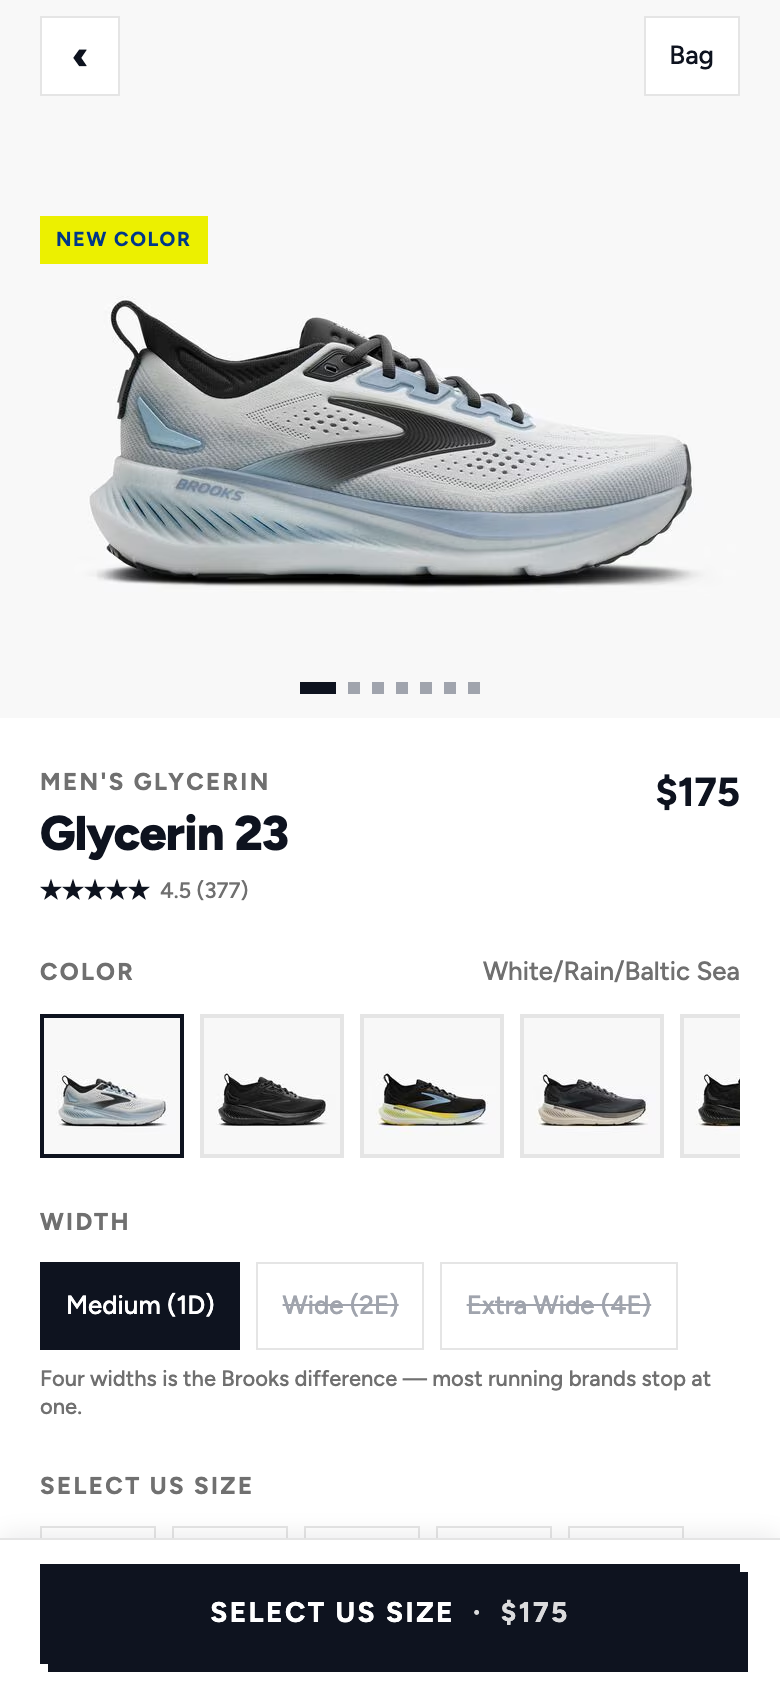
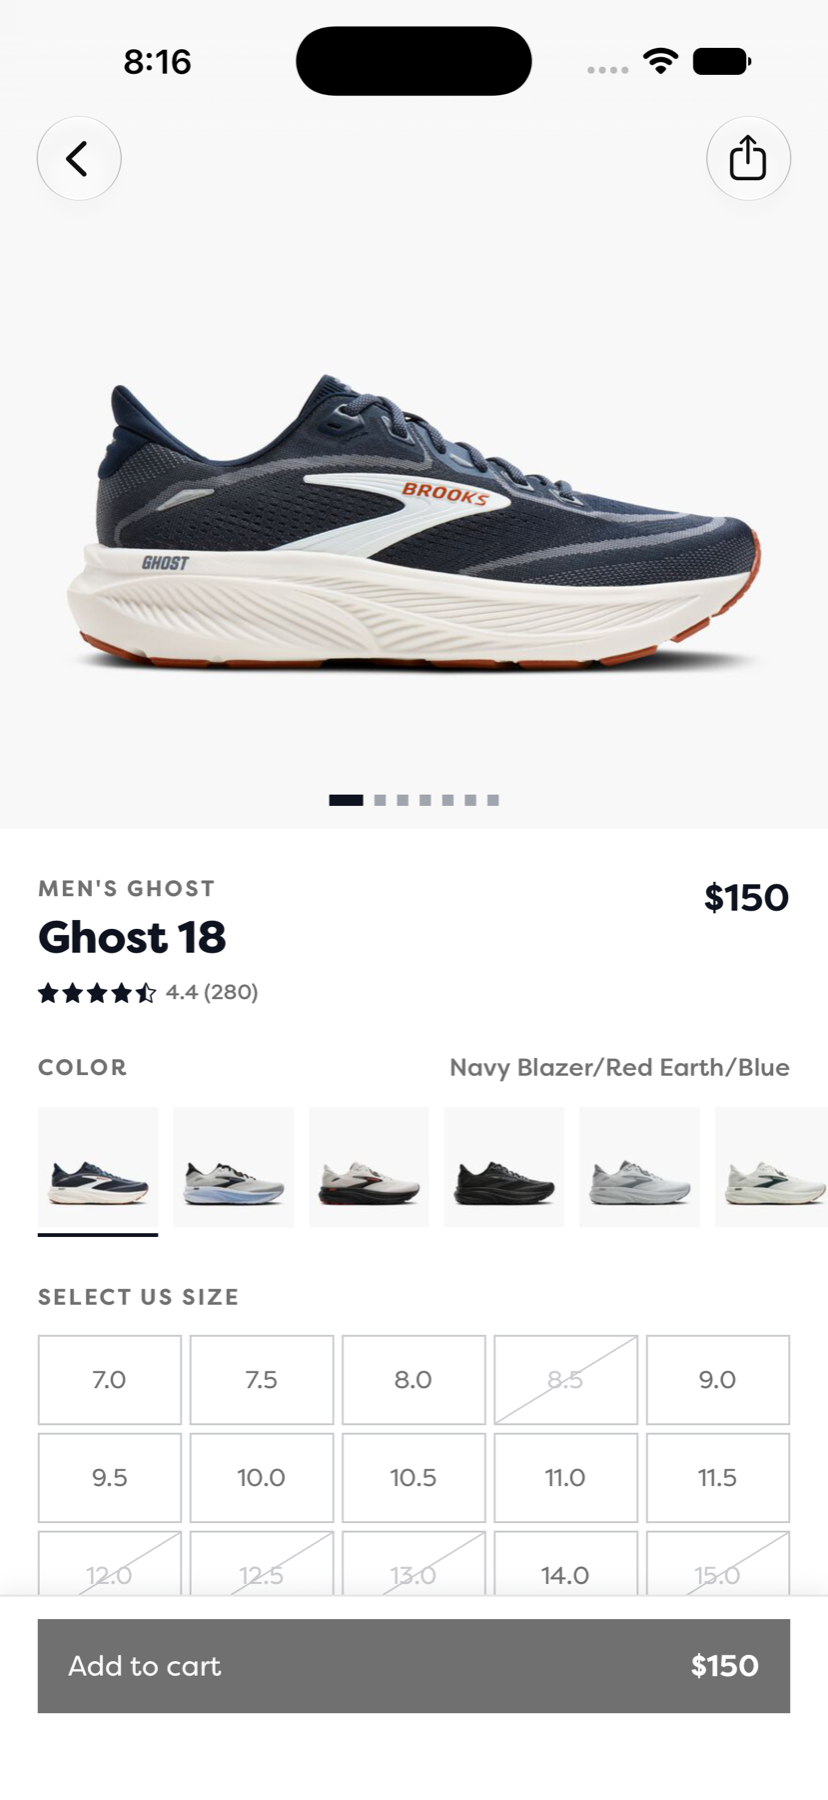
Refresh README and lead screenshots
- Document the current app flows, data boundaries, setup, and TestFlight workflow
- Record EAS workflow results and README refresh decisions in diaries
- Update Home and product detail screenshots

diff --git a/README.md b/README.md
@@ -1,103 +1,155 @@
-# Brooks Mobile Commerce Prototype
+# Brooks mobile commerce prototype
 
-An exploration of what a best-in-class native shopping experience for
-[Brooks Running](https://www.brooksrunning.com) could feel like, built with
-Expo SDK 57. Ported from a research monorepo into this standalone repository;
-the design goal is unchanged: distinctively native, refined, and compelling
-enough to show Brooks executives why Expo is a strong foundation for their
-mobile app.
+A working mobile shopping prototype inspired by [Brooks Running](https://www.brooksrunning.com), built with Expo SDK 57 and React Native 0.86. It uses real Brooks products and photography for the full browse-to-cart journey. Checkout stops inside the app, and no order is placed.
 
-| | |
-|---|---|
-| ![Home](./docs/expo-home.png) | ![PDP](./docs/expo-pdp.png) |
+| Home | Product details |
+| --- | --- |
+| ![The Ghost Amp home screen](./docs/expo-home.png) | ![Ghost 18 product details](./docs/expo-pdp.png) |
 
-More screenshots in `docs/`: PLP, cart, shoe finder, live search.
+## What works
 
-## Running the app
+- Home mirrors the current Brooks campaign with the Ghost Amp video hero, product rails, editorial cards, and the "Longer days. Longer runs." feature.
+- Browse covers categories and franchises. Its search field swaps the screen into live Constructor.io results, with suggestions, filters, sorting, and an on-device fallback when the service is unavailable.
+- Shoe Finder runs a 16-step fit and preference quiz, then ranks products from the bundled catalog.
+- Product details include a swipeable gallery, colorways, widths, per-size availability, specifications, fit data, reviews, and a persistent add-to-cart flow.
+- Cart supports quantity changes, swipe-to-remove with undo, totals, and persisted items. Checkout displays the prototype boundary instead of contacting Brooks.
+- Brooks Run Club membership is a local demo state. Names and email addresses stay on the device.
+- The app uses native stack headers and sheets, an app-owned five-tab bar, reduced-motion behavior, and Apple zoom transitions on iOS 18 and newer.
+
+The repository has iOS, Android, and web scripts. The current store-delivery workflow is iOS-only.
+
+## Quick start
+
+You will need [Bun 1.2.22](https://bun.sh) and the native tooling for the platform you plan to run. Expo SDK 57 targets Node 22.13 or newer, React Native 0.86, Xcode 26.4 or newer, iOS 16.4 or newer, and Android API 36. See the [versioned Expo SDK 57 requirements](https://docs.expo.dev/versions/v57.0.0/#each-expo-sdk-version-depends-on-a-react-native-version).
+
+Install dependencies and build a local iOS development client:
 
 ```sh
 bun install
-bun run ios       # expo run:ios — build + launch on the iOS simulator
-bun run android   # expo run:android — build + launch on the Android emulator
-bun run start     # Metro only; press i / a, or scan with Expo Go
-bun run web       # run in a browser
+bun run ios
 ```
 
-The app boots through an animated Brooks splash into the Project 222 home
-screen, with real Brooks products throughout. Search is live against Brooks's
-own Constructor.io index; everything else works offline from the bundled
-snapshot. It targets Expo Go as well as dev builds.
-
-## The one thing to know about the data
-
-[LLP 0002](./llp/0002-brooks-commerce-api.research.md) is the load-bearing
-document. In short:
-
-**brooksrunning.com is behind Akamai Bot Manager and returns `403` to every
-non-browser HTTP client.** An app cannot call its product or cart APIs at all.
-Two Brooks surfaces *are* open to a phone, and the architecture follows from
-that:
-
-- **Live:** Constructor.io search (`src/data/constructor.ts`) and the Brooks
-  image CDN, which resizes on demand — so the app streams real Brooks
-  photography.
-- **Snapshotted:** products, prices, and per-size stock, captured by
-  [`tools/harvest`](./tools/harvest) driving a real browser session, committed
-  as `packages/catalog/catalog.json`.
-
-The full journey — browse → product → variant → **add to a real Brooks cart** —
-was driven end-to-end against the live endpoints and is documented in LLP 0002.
-No order was placed. The in-app cart is device-local and builds the real Brooks
-variant ids.
-
-## Project structure
-
-```
-src/
-  app/          # expo-router routes only (thin files)
-  screens/      # screen bodies the routes render
-  components/   # shared primitives (button, chip, product-tile, …)
-  data/         # generated copies of packages/catalog + editorial content
-  store/        # cart + Run Club membership (expo-sqlite key-value storage)
-  theme/        # design tokens: colors, spacing, typography, radius, shadows, motion
-  utils/        # kv-storage, haptics, price formatting
-packages/catalog/   # source of truth for the data layer
-tools/harvest/      # captures the catalog from brooksrunning.com (Playwright)
-llp/                # design rationale (Linked Literate Programming)
-diaries/            # AI-agent development diaries
-```
-
-Design tokens keep the values read out of Brooks's own production stylesheet
-([LLP 0003](./llp/0003-brooks-design-system.research.md)) in the
-expo-design-system file layout. Code links back to rationale with
-`@ref LLP NNNN#section` comments.
-
-## Re-harvesting the catalog
+Other targets:
 
 ```sh
-cd tools/harvest && bun install && cd ../..
-bun run harvest   # slow, checkpointed, polite — drives a real browser
-bun run sync      # copy packages/catalog into assets/ and src/data/
+bun run android
+bun run web
 ```
 
-`packages/catalog` is the source of truth. The copies under `src/data/` and
-`assets/catalog.json` are generated — edit the package, not the copy.
+The native `ios/` and `android/` directories are generated locally and ignored by Git. `expo run:ios` and `expo run:android` create them on the first build.
+
+If a development build is already installed, start Metro without rebuilding:
+
+```sh
+bun run start
+```
+
+Because this project includes `expo-dev-client`, that command targets the development build. To open the project in Expo Go instead, force that launch target:
+
+```sh
+bunx expo start --go
+```
+
+## Checks
+
+Run the TypeScript check before sending a change:
+
+```sh
+bun run typecheck
+```
+
+There is no Jest, Detox, or other automated app test suite in this repository yet. Core flows require interactive checks on the target platforms.
+
+## How the data works
+
+The app combines bundled, live, and device-local data:
+
+| Data | Source | Runtime behavior |
+| --- | --- | --- |
+| Products, variants, prices, stock, and specifications | `packages/catalog/catalog.json` | Bundled and available offline |
+| Ratings, fit summaries, and recent reviews | `packages/catalog/reviews.json` | Bundled and available offline |
+| Search and suggestions | Brooks's Constructor.io index | Live, with local fallback |
+| Product and campaign photography | Brooks image CDN | Loaded live |
+| Cart and Run Club demo state | `expo-sqlite` key-value storage | Stored only on the device |
+
+The current catalog snapshot was captured on July 13, 2026. It contains 226 products, 821 colorways, prices, and per-size stock. Review data for all 226 products was refreshed on August 21, 2026.
+
+`brooksrunning.com` sits behind Akamai Bot Manager and returns `403` to non-browser clients. The app therefore cannot call Brooks product, authentication, or cart endpoints directly. [LLP 0002](./llp/0002-brooks-commerce-api.research.md) documents the browser research, reachable services, request shapes, and the exact cart variant identifiers.
+
+`packages/catalog` is the source of truth. Files in `src/data/` and `assets/catalog.json` are generated copies. Do not edit those copies by hand.
+
+## Refreshing the catalog
+
+Install the harvester's browser dependencies once:
+
+```sh
+cd tools/harvest
+bun install
+cd ../..
+```
+
+Then capture and sync the current catalog:
+
+```sh
+bun run harvest
+bun run sync
+```
+
+To replace every review record instead of filling only missing records:
+
+```sh
+bun run harvest:reviews --refresh
+bun run sync
+```
+
+The harvester drives a real browser because direct HTTP requests are blocked. It is slow, checkpointed, and intentionally keeps request volume low.
+
+## Project map
+
+```text
+src/
+  app/                 Expo Router routes
+  screens/             Screen implementations
+  components/          Shared UI and navigation components
+  data/                Generated catalog copies and editorial content
+  store/               Cart, member, and search state
+  theme/               Color, type, spacing, motion, and header tokens
+  utils/               Storage, haptics, and formatting
+packages/catalog/      Source catalog package and schemas
+tools/harvest/         Browser capture, validation, and sync tools
+.eas/workflows/        TestFlight delivery workflow
+docs/                  README screenshots
+llp/                   Product, system, and design rationale
+diaries/               AI-agent development records
+```
+
+`brand.config.js` owns the shippable app identity. `app.config.ts` overlays it on `app.json`, so the display name, slug, URL scheme, and native identifiers stay together.
+
+## TestFlight
+
+The iOS workflow in [`.eas/workflows/deploy-to-testflight.yml`](./.eas/workflows/deploy-to-testflight.yml) fingerprints the native layer, builds when native inputs change, and otherwise uses a matching build as the base for a repack. The resulting binary goes to TestFlight. The project does not use EAS Update.
+
+Run it manually with an Expo account that has access to the configured EAS and App Store Connect projects:
+
+```sh
+eas workflow:run .eas/workflows/deploy-to-testflight.yml
+```
+
+The workflow also declares a push trigger for `main`. That trigger remains inactive until this GitHub repository is connected to the EAS project.
 
 ## Scope
 
-The intended experience mirrors the commerce-focused Brooks website: the
-Josh Kerr / Project 222 home feature, Men's, Women's, New Arrivals, Shoe
-Finder, Run Club login, product shopping, live search, and cart. Completing
-checkout, submitting payment, and placing an order are out of scope.
+The prototype is built for product exploration and technical evaluation. It does not send Run Club details to Brooks, share its local cart with brooksrunning.com, submit payment, or place orders. The harvested catalog is a dated prototype fixture, not a production data contract.
 
 ## Project documentation
 
-The project uses [Linked Literate Programming](https://github.com/ccheever/llp)
-to keep code connected to design rationale.
+This repository uses [Linked Literate Programming](https://github.com/ccheever/llp) to keep implementation decisions connected to their rationale.
 
-- [LLP 0000: Brooks](./llp/0000-brooks.explainer.md) — product and system entry point
-- [LLP 0001: Mobile Shoe Commerce Design Survey](./llp/0001-mobile-shoe-commerce-design.research.md) — benchmarks and rubric
-- [LLP 0002: The Brooks Commerce API](./llp/0002-brooks-commerce-api.research.md) — **read this before touching data**
-- [LLP 0003: Brooks Design System and Screen Patterns](./llp/0003-brooks-design-system.research.md) — brand tokens, voice, screen specs
-- [LLP 0004: Building on Exact Today](./llp/0004-building-on-exact.research.md) — historical research from the original monorepo
-- [AGENTS.md](./AGENTS.md) — working instructions for AI agents
+- [LLP 0000: Brooks](./llp/0000-brooks.explainer.md) is the product and system entry point.
+- [LLP 0001: Mobile shoe commerce design survey](./llp/0001-mobile-shoe-commerce-design.research.md) records the reference products and evaluation rubric.
+- [LLP 0002: The Brooks commerce API](./llp/0002-brooks-commerce-api.research.md) explains the data and network architecture. Read it before changing `src/data/` or `packages/catalog/`.
+- [LLP 0003: Brooks design system and screen patterns](./llp/0003-brooks-design-system.research.md) records brand tokens, navigation, motion, and current screen decisions.
+- [LLP 0004: Building on Exact today](./llp/0004-building-on-exact.research.md) preserves research from the original monorepo.
+- [AGENTS.md](./AGENTS.md) contains working rules for AI agents, including LLP and diary requirements.
+
+Code uses `@ref LLP NNNN#section` comments where a non-obvious implementation decision needs its rationale close by.

diff --git a/diaries/2026-08-26-shared-readme-refresh.md b/diaries/2026-08-26-shared-readme-refresh.md
@@ -1,0 +1,34 @@
+# README refresh
+
+**Date:** 2026-08-26
+**Agent:** Codex (GPT-5.6)
+**System:** Shared
+**Scope:** Replace the stale project README and its two lead screenshots with documentation of the current app.
+
+## Outcome
+
+The root README now documents the current Ghost Amp home, in-place Browse search, Shoe Finder, product and cart behavior, data boundaries, local setup, catalog maintenance, and TestFlight workflow. The Home and PDP images were recaptured from the current iOS development build on an iPhone 17 Pro Max simulator. [observed]
+
+## What worked well
+
+Reading `package.json`, app and EAS configuration, LLP 0000, the relevant LLP 0003 sections, and recent diary outcomes gave a reliable map without reverse-engineering every screen. Argent produced full-resolution screenshots from the same build used to verify the current UI. [observed]
+
+## Friction and blockers
+
+The old README was only two weeks old but described a superseded Project 222 home and pushed search screen. The simulator also restored Home at a previous scroll position, so it had to be returned to the top before capture. No blocker remained. [observed]
+
+## What was hard
+
+The concise explanation had to preserve three distinct boundaries: bundled catalog data, live search and imagery, and device-local member and cart state. Collapsing those into "real Brooks data" would imply live product, auth, or cart APIs that the app cannot call. [observed]
+
+## Comparative friction
+
+Not observed.
+
+## Improvement ideas
+
+Add a small repeatable screenshot flow for the README's Home and PDP states. It would make visual documentation drift obvious when navigation or campaigns change.
+
+## Follow-ups
+
+Refresh the remaining historical images under `docs/` if another document begins linking to them.

diff --git a/diaries/2026-08-26-expo-eas-workflow-testflight.md b/diaries/2026-08-26-expo-eas-workflow-testflight.md
@@ -63,8 +63,31 @@ Not observed.
   build numbers, so this decides whether the repack path works at all, and the
   docs do not say.
 
+## First run results
+
+Manual run `01a0407a-547e-7295-8925-98de75d1d105` (2026-08-26 23:49 UTC) succeeded
+end to end: `fingerprint` -> `get-build` -> `build_ios` -> `testflight`.
+Build 5 (`aafe9d76`) reached TestFlight. [observed]
+
+Two things that run established:
+
+- `get_ios_build` returned empty outputs, so the run took the full-build branch.
+  Builds made before this workflow existed carry no fingerprint hash EAS can match
+  against. Build 5 records `079e5844...`, so the repack branch only becomes
+  reachable from the second run onward. [observed]
+- The `build` path increments correctly under `appVersionSource: remote` +
+  `autoIncrement: true` — it issued build number 5. The repack path is still
+  untested. [observed]
+
+Pushes to `main` do not trigger the workflow. `app.githubRepository` is `null` for
+this project, so EAS never sees the push. `on: push` is inert until the repository
+is connected in project settings. Commits `515bd08` and `6b60d79` both landed on
+`origin/main` and produced no run. [observed]
+
 ## Follow-ups
 
+- Connect the GitHub repository to the EAS project. Until then only
+  `eas workflow:run` works.
 - Verify on the first repack run that the build number increments. If it does not,
   the fix is to bump it in a `repack` hook or drop the repack branch.
 - Repack docs warn it is unsuitable "for production builds that require the
